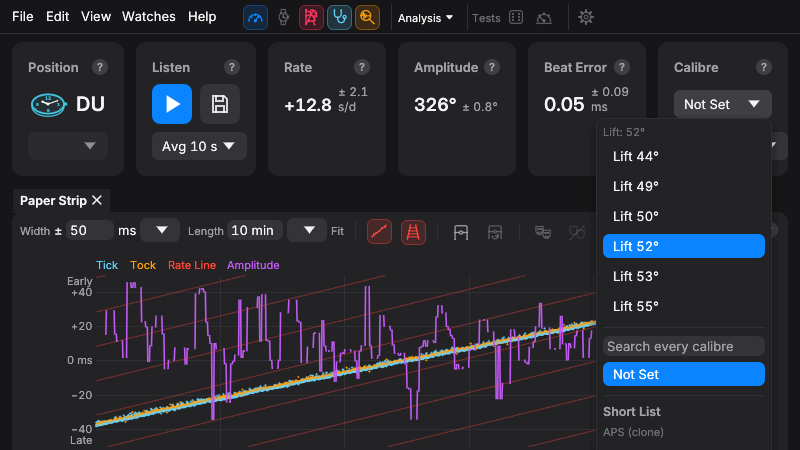
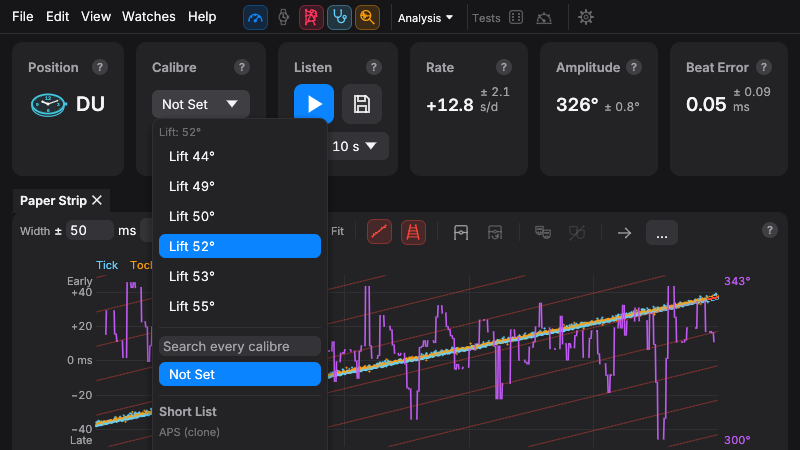
Readings: Position, Calibre and Listen first, then the readings
Peter's order, left to right: Position, Calibre, Listen, Rate, Amplitude,
Beat Error. The compact Position card shows no pop-up while its position
can't be set.

Claude-Session: https://claude.ai/code/session_01GsSg6RBnTb5YLpmgbJGamZ

diff --git a/crates/timegrapher-app/src/app.rs b/crates/timegrapher-app/src/app.rs
@@ -817,6 +817,9 @@ const WATCH_SHARE: f32 = 0.34;
 /// The readings cards' widths: Current Position, Listen and Calibre keep
 /// these while the three reading cards share the rest; on a narrower
 /// window they step down (see `readouts`) before the reading cards do.
+/// The readings cards left to right, by their place in `readouts`'
+/// widths: Position, Calibre, Listen, Rate, Amplitude, Beat Error.
+const CARD_ORDER: [usize; 6] = [0, 5, 1, 2, 3, 4];
 const POSITION_W: f32 = 250.0;
 const LISTEN_W: f32 = 210.0;
 const CALIBRE_W: f32 = 250.0;
@@ -849,6 +852,7 @@ const POSITION_ON_INK: Color32 = Color32::from_rgb(0x0d, 0x26, 0x29);
 const LISTEN_BUTTON: f32 = 40.0;
 
 /// A readings card's three rows inside its padding.
+#[derive(Clone)]
 struct CardRows {
     inner: egui::Rect,
     title: egui::Rect,
@@ -6617,7 +6621,12 @@ impl TimegrapherApp {
             );
             ui.interact(code, ui.id().with("position code"), egui::Sense::hover())
                 .on_hover_text(format!("{} ({codes})", here.name()));
-            // The six in one pop-up; keys 1 to 6 still pick them.
+            // The six in one pop-up; keys 1 to 6 still pick them. Where
+            // the position can't be set (a take on show, a test running),
+            // no pop-up: the code beside the picture says it all.
+            if !editable {
+                return;
+            }
             let mut picked = here;
             let mut child = ui.new_child(
                 egui::UiBuilder::new()
@@ -6632,7 +6641,7 @@ impl TimegrapherApp {
                     // says what it does instead.
                     egui::ComboBox::from_id_salt("position")
                         .width(ui.available_width())
-                        .selected_text(if editable { "Set" } else { "" })
+                        .selected_text("Set")
                         .show_ui(ui, |ui| {
                             for (n, p) in Position::ALL.into_iter().enumerate() {
                                 ui.selectable_value(
@@ -9847,24 +9856,20 @@ impl TimegrapherApp {
             Vec2::new(total, theme::READINGS_CARD_H),
             egui::Sense::hover(),
         );
-        // Each card's three rows, hung off the same three lines.
+        // Each card's three rows, hung off the same three lines. `cards`
+        // keeps the order above; left to right they read Position,
+        // Calibre, Listen, Rate, Amplitude, Beat Error.
         let mut x = block.left();
-        let cards: Vec<CardRows> = widths
-            .iter()
-            .map(|&w| {
-                let rect = egui::Rect::from_min_size(
-                    egui::pos2(x, block.top()),
-                    Vec2::new(w, block.height()),
-                );
-                x += w + gap;
-                ui.painter().rect_filled(
-                    rect,
-                    egui::CornerRadius::same(theme::CARD_RADIUS),
-                    pal.card,
-                );
-                CardRows::of(rect)
-            })
-            .collect();
+        let mut cards = vec![CardRows::of(block); widths.len()];
+        for i in CARD_ORDER {
+            let w = widths[i];
+            let rect =
+                egui::Rect::from_min_size(egui::pos2(x, block.top()), Vec2::new(w, block.height()));
+            x += w + gap;
+            ui.painter()
+                .rect_filled(rect, egui::CornerRadius::same(theme::CARD_RADIUS), pal.card);
+            cards[i] = CardRows::of(rect);
+        }
         // A row of a card, laid out left to right and kept inside it.
         let row = |ui: &mut egui::Ui, rect: egui::Rect, salt: &str| {
             let mut child = ui.new_child(
@@ -19250,6 +19255,55 @@ mod tests {
                 texts.iter().any(|t| t.starts_with("New Take · ")),
                 "the status line: {texts:?}"
             );
+        }
+    }
+
+    /// Left to right the cards read Position, Calibre, Listen, Rate,
+    /// Amplitude, Beat Error, at every width.
+    #[test]
+    fn the_cards_read_position_calibre_listen_then_the_readings() {
+        let mut app = TimegrapherApp::with_devices(Vec::new(), None);
+        let ctx = themed();
+        for w in [800.0, 1000.0, 1610.0] {
+            let mut xs = Vec::new();
+            for _ in 0..3 {
+                let input = egui::RawInput {
+                    screen_rect: Some(egui::Rect::from_min_size(
+                        egui::Pos2::ZERO,
+                        Vec2::new(w, 800.0),
+                    )),
+                    ..Default::default()
+                };
+                let out = ctx.run(input, |ctx| app.panels(ctx));
+                xs.clear();
+                for c in &out.shapes {
+                    if let egui::Shape::Text(t) = &c.shape {
+                        xs.push((t.galley.text().to_string(), t.pos.x));
+                    }
+                }
+            }
+            let at = |caption: &str| {
+                xs.iter()
+                    .find(|(t, _)| t == caption)
+                    .map(|&(_, x)| x)
+                    .unwrap_or_else(|| panic!("{caption} at {w}: {xs:?}"))
+            };
+            let position = if w > 1000.0 {
+                "Current Position"
+            } else {
+                "Position"
+            };
+            let order = [
+                position,
+                "Calibre",
+                "Listen",
+                "Rate",
+                "Amplitude",
+                "Beat Error",
+            ];
+            for pair in order.windows(2) {
+                assert!(at(pair[0]) < at(pair[1]), "{pair:?} at {w}");
+            }
         }
     }
 

diff --git a/docs/app.md b/docs/app.md
@@ -47,9 +47,9 @@ Steadiness views share one green. The readings have pictures of their
 own wherever the app shows or switches one: a hare for the rate, a swing
 for the amplitude and a seesaw for the beat error, in their colours.
 
-**The readings**, across the top, are six cards: **Current Position** and
-**Listen**, then **Rate**, **Amplitude**, **Beat Error** and **Beat
-Rate**, sharing the rest of the width. Every card is the same three rows,
+**The readings**, across the top, are six cards, left to right:
+**Current Position**, **Calibre** and **Listen**, then **Rate**,
+**Amplitude** and **Beat Error**, sharing the rest of the width. Every card is the same three rows,
 so the titles, the big figures and the controls each read in one line
 across: a title row (the caption, the card's **?** in its top-right
 corner, and what limits the reading in a small chip beside the ?), a
@@ -57,7 +57,7 @@ figure row (the big figure with its ± and unit on the figure's baseline)
 and a controls row. What stands behind a figure is in its hover: the
 beats the rate is fitted to and their jitter, True Clock, the Tick and
 Tock amplitudes, the beat error from the drop, how the beat rate was
-found, and, for a stopped take, the whole take's reading (see below).
+found (on the Calibre card), and, for a stopped take, the whole take's reading (see below).
 **Current Position** shows the watch as it lies, in teal, the colour of
 position information everywhere, with no stand: the case, its crown at
 3, the numbers 12, 3, 6 and 9, and the hands at 10:10. Standing, the
@@ -123,7 +123,7 @@ reading cards always keeping room for their captions whole. Compact,
 Current Position is captioned **Position**, with a smaller picture, the
 position's two-letter code beside it ("CR"; the name is in its hover),
 and under it one pop-up, **Set**, of the six positions (with their keys)
-instead of the buttons; keys 1 to 6 still work, and the bars aren't shown. Listen keeps
+instead of the buttons (none while a take is on show or a test runs); keys 1 to 6 still work, and the bars aren't shown. Listen keeps
 its two icons, gives the take's length beside its caption ("Listen
 12:48"; on the narrowest windows in the Listen icon's hover instead),
 and shows Average Over's pop-up as **Avg 10 s**. Compact, Calibre keeps
